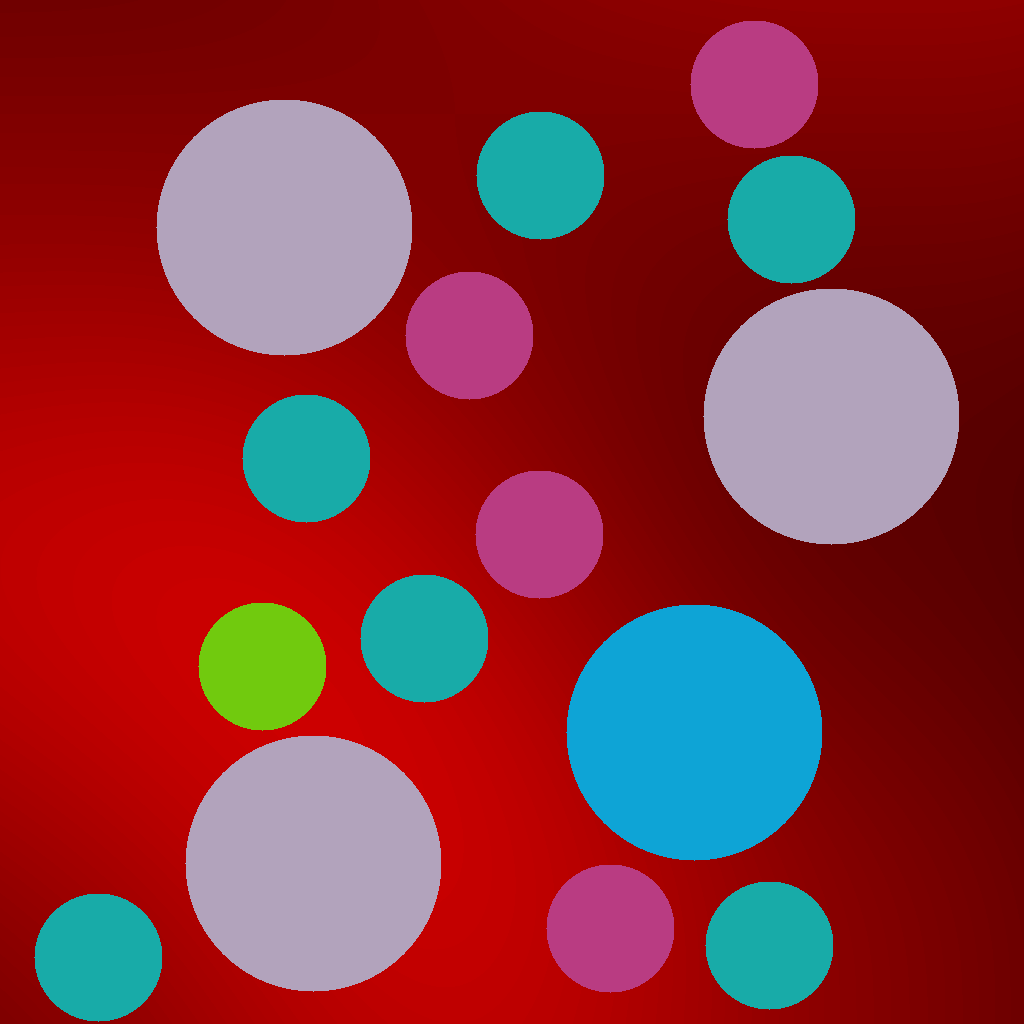
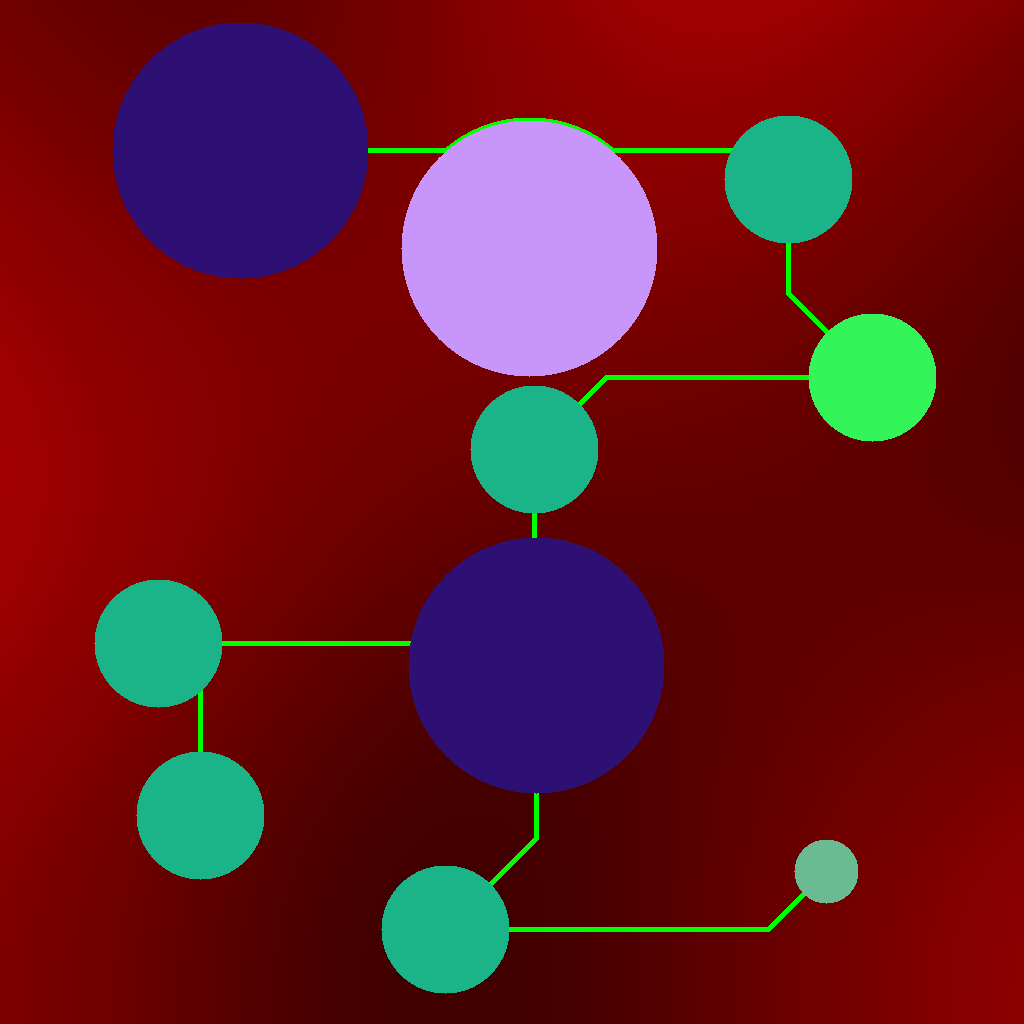
路径生成

diff --git a/Assets/Scripts/Terrain/TerrainGenerator.cs b/Assets/Scripts/Terrain/TerrainGenerator.cs
@@ -1,7 +1,6 @@
 using Core;
 using System;
 using System.Collections.Generic;
-using System.Linq;
 using System.Reflection;
 using UnityEngine;
 
@@ -14,32 +13,70 @@ namespace Terrain
         public Layer CreateLayer(int seed, int worldLength)
         {
             var length = worldLength * Constants.ChunkLength;
-            //var height = Constants.WorldHeight * Constants.ChunkLength;
+            //高度图
             var heightmap = new int[length, length];
+            //温度图
             var temperaturemap = new int[length, length];
+            //湿度图
             var humiditymap = new int[length, length];
 
             FillEnvironmentalmaps(seed, length, heightmap, temperaturemap, humiditymap);
-
+            //领地图
             var territorymap = new int[length, length];
+            //领地表
             var id2Territory = new List<Territory>();
-            var territorySeed = seed;
 
+            var territorySeed = seed;
             while (!TryFillTerritorymap(territorySeed, territorymap, id2Territory))
             {
                 territorySeed++;
+                if (territorySeed - seed + 1 > 4)
+                {
+                    throw new Exception($"Try to fill the territory too many times");
+                }
             }
             var times = territorySeed - seed + 1;
-            if (times < 3)
-            {
-                Debug.Log($"Try to fill the territory {times} times");
-            }
-            else
-            {
-                Debug.LogWarning($"Try to fill the territory {times} times");
-            }
+            Debug.Log($"Try to fill the territory {times} times");
+
+            var paths = CreatePaths(territorymap, id2Territory);
+            var pathmap = new int[length, length];
+            FillPathmap(pathmap, paths, territorymap);
 
 
+            //var height = Constants.WorldHeight * Constants.ChunkLength;
+            //var blockmap = new int[length, height, length];
+            //for (int x = 0; x < length; x++)
+            //{
+            //    for (int z = 0; z < length; z++)
+            //    {
+            //        var curHeight = heightmap[x, z];
+            //        for (int y = 0; y < height; y++)
+            //        {
+            //            //使用时候factor范围为0-1
+
+
+            //            //高度差为0的时:factor = 1
+            //            //高度差达到NoiseImpactRange时:factor = 0
+            //            //更大差值时候:factor < 0
+            //            var heightDifference = Mathf.Abs(y - curHeight);
+            //            var heightFactor = ((float)Constants.NoiseImpactRange - heightDifference) / Constants.NoiseImpactRange;
+
+            //            //在领地中心为:territoryFactor = 0;
+            //            //距离领地距离达到Range时:territoryFactor = 1;
+            //            //更远距离时候:territoryFactor > 1
+            //            var territory = id2Territory[territorymap[x, z]];
+            //            var territoryRange = territory.Range;
+            //            var territoryCenter = territory.CenterCoord;
+            //            var disSquare = (x - territoryCenter.x) * (x - territoryCenter.x) + (y - curHeight) * (y - curHeight) + (z - territoryCenter.y) * (z - territoryCenter.y);
+            //            var territoryFactor = (float)disSquare / (territoryRange * territoryRange);
+
+
+            //            //
+
+
+            //        }
+            //    }
+            //}
 
             #region 生成图片查看结果
             var texture = new Texture2D(length, length, TextureFormat.ARGB32, false);
@@ -59,11 +96,19 @@ namespace Terrain
             {
                 for (int y = 0; y < length; y++)
                 {
+
                     var index = territorymap[x, y];
                     if (index == -1)
                     {
-                        var c = new Color((float)temperaturemap[x, y] / 100, 0, 0);
-                        texture.SetPixel(x, y, c);
+                        if (pathmap[x, y] != -1)
+                        {
+                            texture.SetPixel(x, y, Color.green);
+                        }
+                        else
+                        {
+                            var c = new Color((float)temperaturemap[x, y] / 100, 0, 0);
+                            texture.SetPixel(x, y, c);
+                        }
                     }
                     else
                     {
@@ -81,13 +126,215 @@ namespace Terrain
             return new Layer(null, null);
         }
 
+        private void FillPathmap(int[,] pathmap, IReadOnlyList<Path> paths, int[,] territorymap)
+        {
+            for (int x = 0; x < pathmap.GetLength(0); x++)
+            {
+                for (int z = 0; z < pathmap.GetLength(1); z++)
+                {
+                    pathmap[x, z] = -1;
+                }
+            }
+            //对于每条路径使用A*算法
+            for (int i = 0; i < paths.Count; i++)
+            {
+                var curPath = paths[i];
+                var coordsOnPath = GenerateCoordsOnPathByAStar(curPath, territorymap);
+                foreach (var coord in coordsOnPath)
+                {
+                    pathmap[coord.x, coord.y] = i;
+                    var minx = coord.x - Constants.PathRange < 0 ? 0 : coord.x - Constants.PathRange;
+                    var maxx = coord.x + Constants.PathRange > pathmap.GetLength(0) ? pathmap.GetLength(0) : coord.x + Constants.PathRange;
+                    var miny = coord.y - Constants.PathRange < 0 ? 0 : coord.y - Constants.PathRange;
+                    var maxy = coord.y + Constants.PathRange > pathmap.GetLength(1) ? pathmap.GetLength(1) : coord.y + Constants.PathRange;
+                    for (int x = minx; x < maxx; x++)
+                    {
+                        for (int y = miny; y < maxy; y++)
+                        {
+                            var disSquare = (coord.x - x) * (coord.x - x) + (coord.y - y) * (coord.y - y);
+                            if (disSquare < Constants.PathRange)
+                            {
+                                pathmap[x, y] = i;
+                            }
+                        }
+                    }
+                }
+            }
+        }
+        private IReadOnlyList<Coord2Int> GenerateCoordsOnPathByAStar(Path path, int[,] territorymap)
+        {
+            var start = path.Departure.CenterCoord;
+            var goal = path.Destination.CenterCoord;
+
+            var coordOpenSet = new HashSet<Coord2Int>() { start };
+            var coord2CameFrom = new Dictionary<Coord2Int, Coord2Int>();
+            var coord2GScore = new Dictionary<Coord2Int, int>() { { start, 0 } };
+            var coord2FScore = new Dictionary<Coord2Int, int>() { { start, ManhattanDistance(start, goal) } };
+
+            var startTerritoryIndex = territorymap[start.x, start.y];
+            var goalTerritoryIndex = territorymap[goal.x, goal.y];
+            while (coordOpenSet.Count > 0)
+            {
+                //获得最小代价点作为当前点
+                var minFScore = int.MaxValue;
+                var current = Coord2Int.zero;
+                foreach (var item in coordOpenSet)
+                {
+                    if (coord2FScore[item] < minFScore)
+                    {
+                        current = item;
+                        minFScore = coord2FScore[item];
+                    }
+                }
+
+                //如果当前为目标则直接返回
+                if (current == goal)
+                {
+                    var coords = new List<Coord2Int>();
+                    while (coord2CameFrom.ContainsKey(current))
+                    {
+                        current = coord2CameFrom[current];
+                        coords.Add(current);
+                    }
+                    coords.Reverse();
+                    return coords;
+                }
+                else
+                {
+                    coordOpenSet.Remove(current);
+                    //遍历所有邻居
+                    for (int i = -1; i < 2; i++)
+                    {
+                        for (int j = -1; j < 2; j++)
+                        {
+                            var x = current.x + i;
+                            var z = current.y + j;
+                            if (i == 0 && j == 0)
+                            {
+                                //该点是自身点不是相邻点,排除.
+                            }
+                            else if (x < 0 || x >= territorymap.GetLength(0) || z < 0 || z >= territorymap.GetLength(1))
+                            {
+                                //越界
+                            }
+                            else
+                            {
+                                var neighbor = new Coord2Int(x, z);
+                                //如果相邻点可走
+                                //这里认为起始和目标领地以及空地可走
+                                var neighborTerritoryIndex = territorymap[neighbor.x, neighbor.y];
+                                if (neighborTerritoryIndex == -1 || neighborTerritoryIndex == startTerritoryIndex || neighborTerritoryIndex == goalTerritoryIndex)
+                                {
+                                    var tentativeGScore = coord2GScore[current] + 1;
+                                    if (!coord2GScore.ContainsKey(neighbor) || tentativeGScore < coord2GScore[neighbor])
+                                    {
+                                        if (coord2CameFrom.ContainsKey(neighbor))
+                                            coord2CameFrom[neighbor] = current;
+                                        else
+                                            coord2CameFrom.Add(neighbor, current);
+
+                                        if (coord2GScore.ContainsKey(neighbor))
+                                            coord2GScore[neighbor] = tentativeGScore;
+                                        else
+                                            coord2GScore.Add(neighbor, tentativeGScore);
+
+                                        if (coord2FScore.ContainsKey(neighbor))
+                                            coord2FScore[neighbor] = tentativeGScore + ManhattanDistance(neighbor, goal);
+                                        else
+                                            coord2FScore.Add(neighbor, tentativeGScore + ManhattanDistance(neighbor, goal));
+
+                                        if (!coordOpenSet.Contains(neighbor))
+                                        {
+                                            coordOpenSet.Add(neighbor);
+                                        }
+                                    }
+                                }
+                                else
+                                {
+                                    //相邻位置不可移动,排除.
+                                }
+
+                            }
+                        }
+                    }
+                }
+            }
+            throw new Exception("Open set is empty but goal was never reached!");
+        }
+        private int ManhattanDistance(Coord2Int start, Coord2Int goal)
+        {
+            return Mathf.Abs(start.x - goal.x) + Mathf.Abs(start.y - goal.y);
+        }
+        private IReadOnlyList<Path> CreatePaths(int[,] territorymap, IReadOnlyList<Territory> id2Territory)
+        {
+            var paths = new List<Path>();
+
+            var markedTerritories = new List<Territory>();
+            var unmarkedTerritories = new List<Territory>();
+            BossTerritory bossTerritory = null;
+            foreach (var t in id2Territory)
+            {
+                if (t is AdventurerTerritory)
+                {
+                    markedTerritories.Add(t);
+                }
+                else
+                {
+                    if (t is BossTerritory)
+                    {
+                        bossTerritory = t as BossTerritory;
+                    }
+                    else
+                    {
+                        unmarkedTerritories.Add(t);
+                    }
+                }
+            }
+            while (unmarkedTerritories.Count > 0)
+            {
+                var currentMarkedTerritory = markedTerritories[markedTerritories.Count - 1];
+                var minDistance = int.MaxValue;
+                Territory minDisUnmarkedTerritory = null;
+                var minDisUnmarkedTerritoryIndex = -1;
+                for (int i = 0; i < unmarkedTerritories.Count; i++)
+                {
+                    var unmarkedTerritory = unmarkedTerritories[i];
+                    var distance = Mathf.Abs(currentMarkedTerritory.CenterCoord.x - unmarkedTerritory.CenterCoord.x) + Mathf.Abs(currentMarkedTerritory.CenterCoord.y - unmarkedTerritory.CenterCoord.y);
+                    if (distance < minDistance)
+                    {
+                        minDisUnmarkedTerritory = unmarkedTerritory;
+                        minDisUnmarkedTerritoryIndex = i;
+                        minDistance = distance;
+                    }
+                }
+
+                minDistance = int.MaxValue;
+                Territory minDisMarkedTerritory = null;
+                foreach (var markedTerritory in markedTerritories)
+                {
+                    var distance = Mathf.Abs(markedTerritory.CenterCoord.x - minDisUnmarkedTerritory.CenterCoord.x) + Mathf.Abs(markedTerritory.CenterCoord.y - minDisUnmarkedTerritory.CenterCoord.y);
+                    if (distance < minDistance)
+                    {
+                        minDisMarkedTerritory = markedTerritory;
+                        minDistance = distance;
+                    }
+                }
+
+
+                markedTerritories.Add(minDisUnmarkedTerritory);
+                unmarkedTerritories.RemoveAt(minDisUnmarkedTerritoryIndex);
+
+                paths.Add(new Path(minDisMarkedTerritory, minDisUnmarkedTerritory));
+            }
+            return paths;
+        }
         private bool TryFillTerritorymap(int seed, int[,] territorymap, List<Territory> id2Territory)
         {
             var success = true;
             //重置
-            for (int x = 0; x < territorymap.Length; x++)
+            for (int x = 0; x < territorymap.GetLength(0); x++)
             {
-                for (int y = 0; y < territorymap.Length; y++)
+                for (int y = 0; y < territorymap.GetLength(0); y++)
                 {
                     territorymap[x, y] = -1;
                 }
@@ -207,6 +454,8 @@ namespace Terrain
             {
                 var index = id2Territory.Count;
                 id2Territory.Add(territory);
+                territory.CenterCoord = new Coord2Int(cx, cy);
+
                 for (int x = cx - range; x < cx + range; x++)
                 {
                     for (int y = cy - range; y < cy + range; y++)

diff --git a/Assets/Scripts/Terrain/Constants.cs b/Assets/Scripts/Terrain/Constants.cs
@@ -18,8 +18,11 @@ namespace Terrain
 
         public static readonly int LayerEdgeWidth = 32;
 
-        public static readonly int MinNormalTerritoryCount = 10;
-        public static readonly int MaxNormalTerritoryCount = 15;
+        public static readonly int MinNormalTerritoryCount = 8;
+        public static readonly int MaxNormalTerritoryCount = 12;
 
+        public static readonly int PathRange = 8;
+
+        public static readonly int NoiseImpactRange = 16;
     }
 }

diff --git a/Assets/Scripts/Terrain/Path.cs b/Assets/Scripts/Terrain/Path.cs
@@ -1,0 +1,19 @@
+namespace Terrain
+{
+    internal class Path
+    {
+        private Territory departure;
+        private Territory destination;
+
+        public Territory Departure { get => departure; }
+        public Territory Destination { get => destination; }
+
+        public Path(Territory departure, Territory destination)
+        {
+            this.departure = departure;
+            this.destination = destination;
+        }
+
+
+    }
+}

diff --git a/Assets/Scripts/Terrain/Territories/Territory.cs b/Assets/Scripts/Terrain/Territories/Territory.cs
@@ -1,7 +1,10 @@
-namespace Terrain
+using Core;
+
+namespace Terrain
 {
     internal abstract class Territory
     {
         public abstract int Range { get; }
+        public Coord2Int CenterCoord { get; internal set; }
     }
 }

diff --git a/Assets/Scripts/Terrain/Territories/SpecialTerritories/AdventurerTerritory.cs b/Assets/Scripts/Terrain/Territories/SpecialTerritories/AdventurerTerritory.cs
@@ -2,6 +2,6 @@
 {
     internal class AdventurerTerritory : SpecialTerritory
     {
-        public override int Range { get { return 64; } }
+        public override int Range { get { return 32; } }
     }
 }

diff --git a/Assets/Scripts/Terrain/Territories/SpecialTerritories/SpecialTerritory.cs b/Assets/Scripts/Terrain/Territories/SpecialTerritories/SpecialTerritory.cs
@@ -2,5 +2,6 @@
 {
     internal abstract class SpecialTerritory : Territory
     {
+
     }
 }
